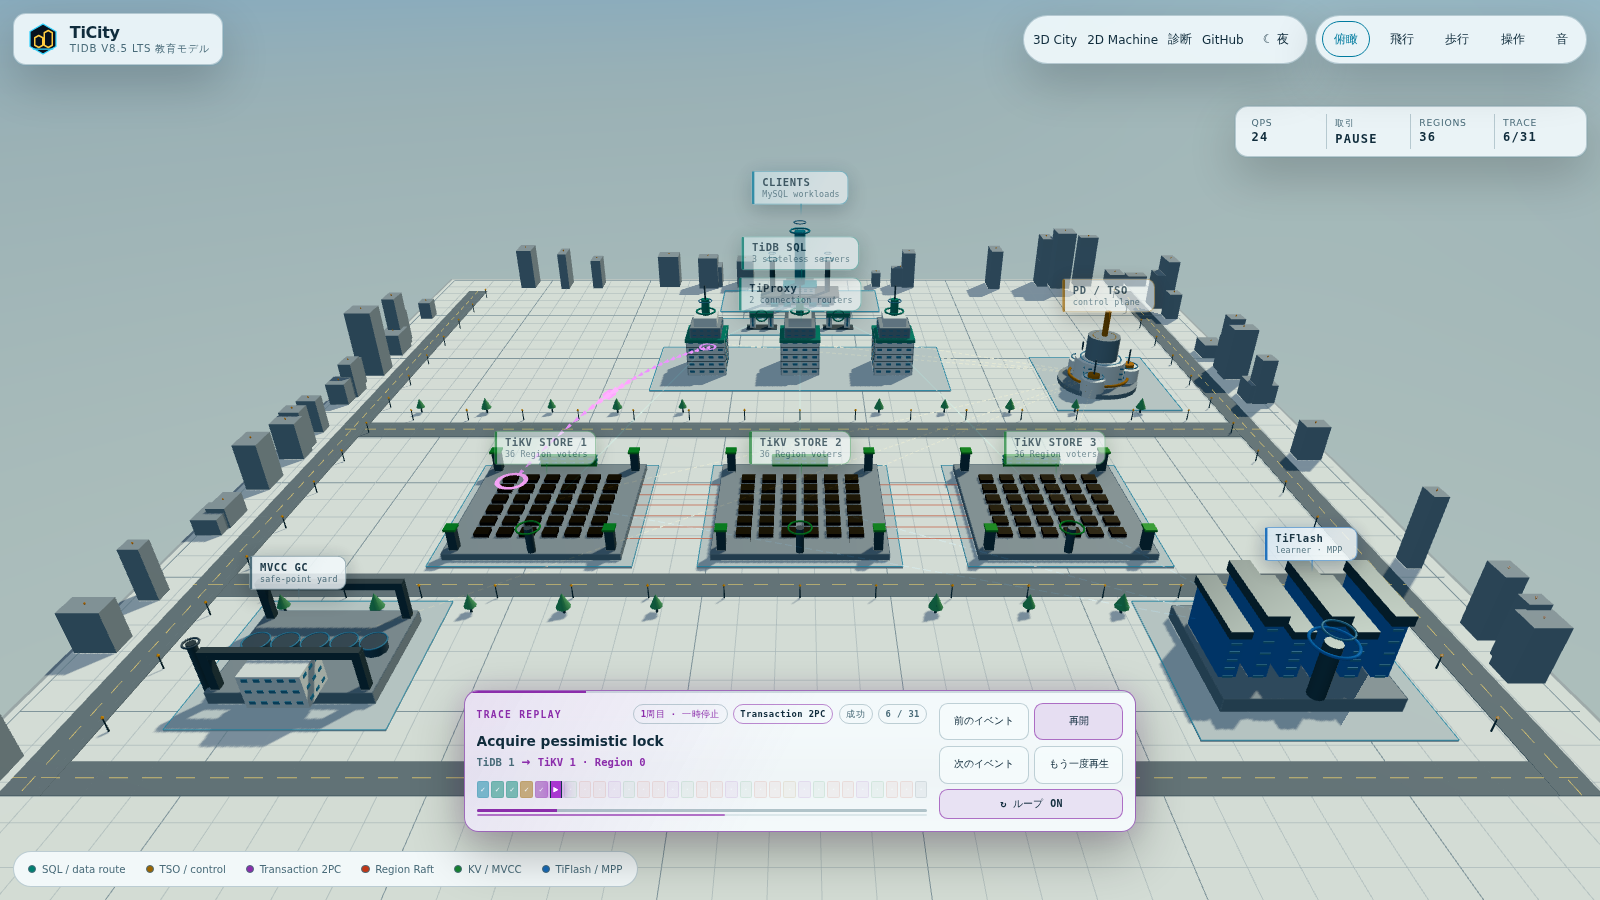
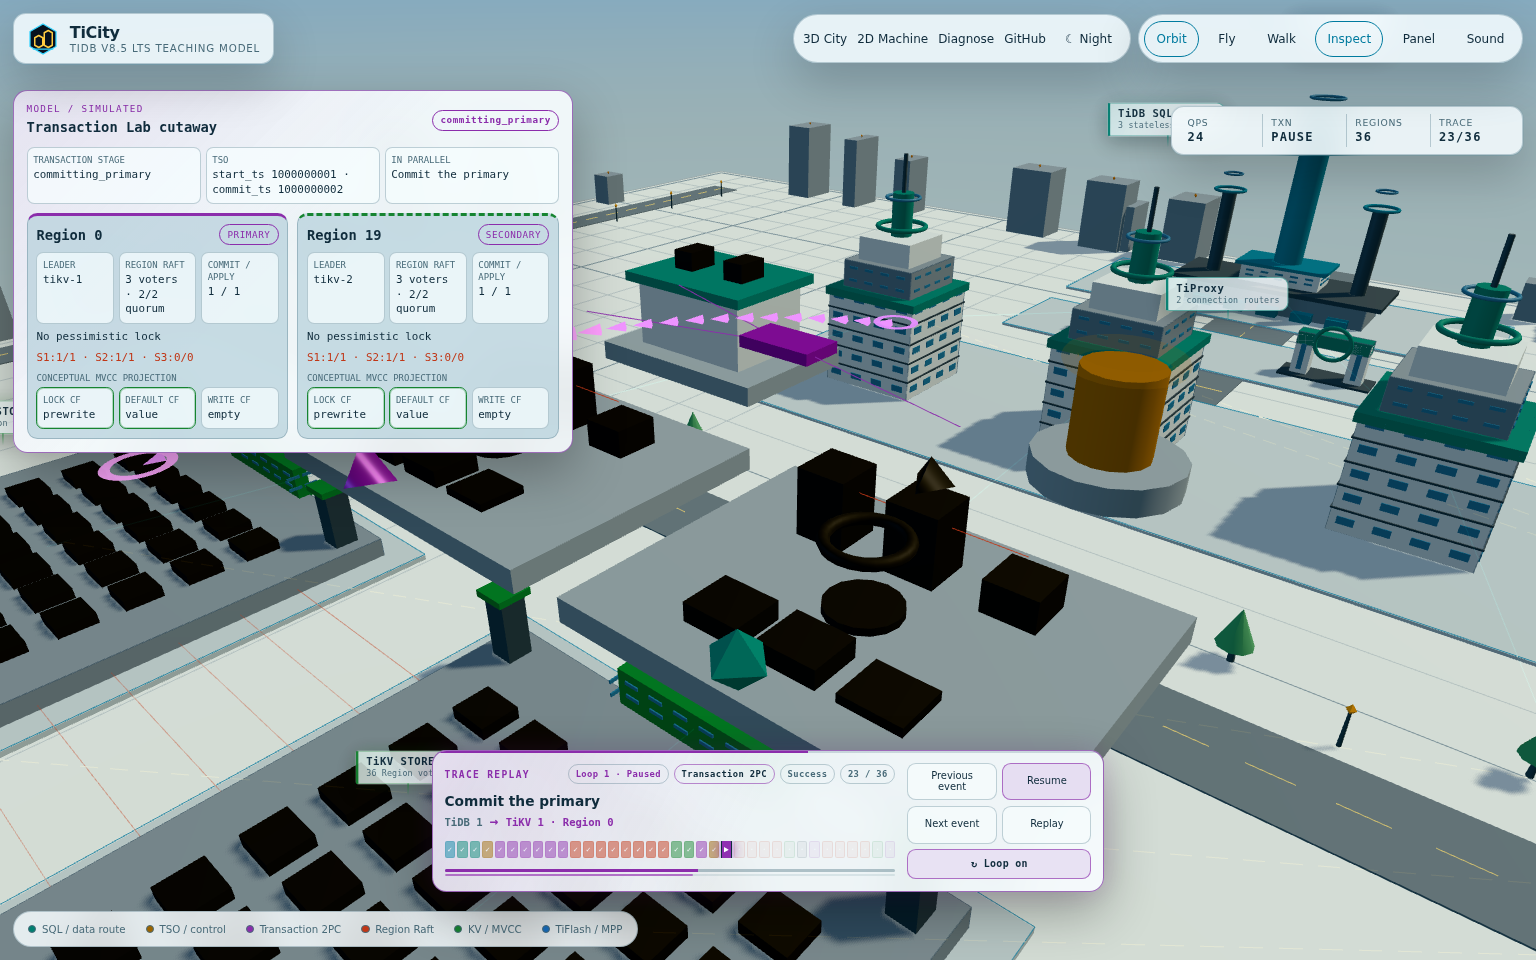
docs: prepare Transaction Lab v0.4.0

diff --git a/README.ja.md b/README.ja.md
@@ -11,15 +11,23 @@ TiKV、TiFlashの実装そのものや接続済みクラスタではなく、主
 
 公開先: <https://penguin425.github.io/TiCity/>
 
-![TiCityの3D都市でTransaction 2PCの現在経路を示すTrace Dock](docs/screenshot.png)
+![2つのRegionにまたがる悲観トランザクションのprimary commitを表示するTiCity Transaction Lab](docs/screenshot.png)
 
 > [!IMPORTANT]
-> TiCity v0.3.4はTiDB v8.5 LTSを対象にした静的・オフラインのモデルです。
+> TiCity v0.4.0はTiDB v8.5 LTSを対象にした静的・オフラインのモデルです。
 > SQLを実行せず、実データや架空の結果行も返しません。入力した単一SQL文を
 > ブラウザ内で分類し、モデル上の経路と説明だけを生成します。
 
 ## 観察できるもの
 
+- **内部**（Inspect）で開く、2つのRegionにまたがる悲観トランザクションの
+  詳細なTransaction Labカットアウェイ
+- Leaderメモリ上の悲観ロック、並列prewrite、Regionごとに独立した2-of-3
+  Raft quorum、apply、概念上のMVCC `LOCK`／`DEFAULT`／`WRITE` column family
+- 不変なイベント後snapshot、明示的なfork/join依存、クライアント応答境界、
+  応答後のsecondary cleanupを持つ因果イベントグラフ
+- 共有可能なURLにより、3D City、Machine、Diagnoseで一致するscenarioと
+  event cursor
 - TiProxy、TiDB Server、PD、TiKV、TiFlashからなる既定トポロジ
 - PDのTSO、Regionの範囲・Leader・3 voter、Raft複製とquorum
 - 悲観／楽観トランザクション、prewriteとcommit、1PC／Async Commit／2PC
@@ -34,9 +42,12 @@ TiKV、TiFlashの実装そのものや接続済みクラスタではなく、主
 
 | URL | 内容 |
 |---|---|
-| `/` | 3D City、シナリオ、SQL経路、ツアー |
-| `/machine/` | 同じ処理を追跡する2Dステートマシン |
-| `/diagnose/` | モデル状態、Region、quorum、lag、履歴の診断 |
+| `/?scenario=cross-region-transaction` | 3D Cityと詳細なTransaction Lab |
+| `/machine/?scenario=cross-region-transaction&event=…` | 選択イベント時点の因果2Dステートマシン |
+| `/diagnose/?scenario=cross-region-transaction&event=…` | イベント時点のtransaction、Raft、lock、MVCC診断 |
+
+3D Cityで**内部**を選ぶとカットアウェイへフォーカスします。再生操作は同じ
+不変なreceipt上を移動し、ループ時もトランザクションを再実行しません。
 
 ## 代表シナリオ
 
@@ -87,9 +98,15 @@ src/tidb/
 - 3D Worldは`TiCityState`を変更しません。
 - 2PCとRaftは別々の状態機械、色、`TraceEvent.domain`を持ちます。
 - seedと固定stepが同じなら、状態と`TraceReceipt`も同じになります。
+- model-2の詳細トランザクションでは、並列branchは教育用clock上で重なり得ますが、
+  因果順序は明示的な依存関係で決まります。
 - 初期36 Regionは教育用の代表値です。split後の追加Regionは2D診断に現れ、
   3D Cityは安定した36個のRegion slotを表示します。実クラスタの規模や時間を
   再現するものではありません。
+
+機構レベルの詳細projectionは、現時点では複数Regionトランザクションの
+scenarioに適用されています。ほかの7 scenarioは簡潔な教育用traceのままで、
+同じRaft／MVCC深度をまだ主張しません。
 
 ブラウザコンソールの`window.TICITY`から、モデル、再生、シナリオ、
 最後の不変なトレースを操作・確認できます。

diff --git a/README.md b/README.md
@@ -13,16 +13,26 @@ English.
 
 Live site: <https://penguin425.github.io/TiCity/>
 
-![Trace Dock showing the active Transaction 2PC route in TiCity's 3D city](docs/screenshot.png)
+![TiCity Transaction Lab showing a two-Region pessimistic transaction at primary commit](docs/screenshot.png)
 
 > [!IMPORTANT]
-> TiCity v0.3.4 is a static, offline model targeting TiDB v8.5 LTS. It does not
+> TiCity v0.4.0 is a static, offline model targeting TiDB v8.5 LTS. It does not
 > execute SQL or return real data or invented result rows. A single SQL
 > statement entered by the user is classified entirely in the browser, and
 > only a modeled route and explanation are generated.
 
 ## What you can inspect
 
+- A Transaction Lab cutaway for one detailed two-Region pessimistic
+  transaction, opened with **Inspect**
+- Leader-memory pessimistic locks, parallel prewrite branches, independent
+  2-of-3 Raft quorums, apply, and conceptual MVCC `LOCK`, `DEFAULT`, and
+  `WRITE` column-family state
+- A causal event graph with immutable post-event snapshots, explicit
+  fork/join dependencies, a client-response boundary, and background
+  secondary cleanup
+- The same scenario and event cursor across the 3D City, Machine, and
+  Diagnose views through shareable URLs
 - A default topology containing TiProxy, TiDB Server, PD, TiKV, and TiFlash
 - PD TSO, Region ranges and Leaders, three voters, Raft replication, and quorum
 - Pessimistic and optimistic transactions, prewrite and commit, 1PC, Async Commit, and 2PC
@@ -37,9 +47,13 @@ The application has three views:
 
 | URL | Purpose |
 |---|---|
-| `/` | 3D City, scenarios, SQL routes, and guided tours |
-| `/machine/` | A 2D state machine following the same processing flow |
-| `/diagnose/` | Diagnostics for model state, Regions, quorum, lag, and history |
+| `/?scenario=cross-region-transaction` | 3D City and the detailed Transaction Lab |
+| `/machine/?scenario=cross-region-transaction&event=…` | A causal 2D state machine at the selected event |
+| `/diagnose/?scenario=cross-region-transaction&event=…` | Event-time transaction, Raft, lock, and MVCC diagnostics |
+
+Choose **Inspect** in the 3D City to focus the cutaway. Replay controls move
+through the same immutable receipt; looping reuses that receipt and never
+re-executes a transaction.
 
 ## Representative scenarios
 
@@ -91,10 +105,16 @@ src/tidb/
 - The 3D World does not mutate `TiCityState`.
 - 2PC and Raft have separate state machines, colors, and `TraceEvent.domain` values.
 - Given the same seed and fixed step, the state and `TraceReceipt` are identical.
+- In the model-2 detailed transaction, parallel branches may overlap on the
+  teaching clock, while explicit dependencies determine their causal order.
 - The initial 36 Regions are representative educational values. Additional
   Regions created by splits appear in the 2D diagnostics, while the 3D City
   retains 36 stable Region slots. This does not reproduce the scale or timing
   of a live cluster.
+
+The detailed mechanism-level projection currently applies to the
+cross-Region transaction scenario. The other seven scenarios remain compact
+teaching traces and do not yet claim the same Raft/MVCC depth.
 
 The `window.TICITY` object in the browser console exposes the model, playback,
 scenarios, and latest immutable trace for inspection and control.

diff --git a/CHANGELOG.md b/CHANGELOG.md
@@ -4,6 +4,20 @@ All notable TiCity changes are documented here. The inherited PGSimCity
 history remains available in Git before the TiCity derivation baseline
 recorded in `NOTICE`.
 
+## [0.4.0] — 2026-07-31
+
+- Complete the first Transaction Lab vertical slice: one deterministic
+  two-Region pessimistic transaction can be inspected from coordinator
+  routing through parallel prewrite, per-Region Raft quorum/apply, conceptual
+  MVCC state, primary response, and background secondary cleanup.
+- Keep the 3D cutaway, Trace Dock, Machine causal graph, and Diagnose
+  event-time projection synchronized to the same immutable event cursor.
+- Add bilingual and accessible Inspect controls, shareable event URLs,
+  fixed-capacity rendering, reduced-motion behavior, release documentation,
+  and a current Transaction Lab screenshot.
+- Preserve compact traces for the other seven scenarios and explicitly bound
+  their current level of detail.
+
 ## [0.4.0-beta.1] — 2026-07-31
 
 - Make Machine draw explicit causal fork/join edges instead of inventing a

diff --git a/docs/MODEL_BOUNDARY.md b/docs/MODEL_BOUNDARY.md
@@ -79,4 +79,4 @@ execute, optimize, contact a cluster, persist SQL literals, or return rows.
 
 - `MODEL / SIMULATED`: generated entirely by TiCity.
 - `REFERENCE`: a link or command that a person could use on a real cluster.
-- `OBSERVED`: reserved for a future read-only adapter and not used in v0.3.x.
+- `OBSERVED`: reserved for a future read-only adapter and not used in v0.4.x.
